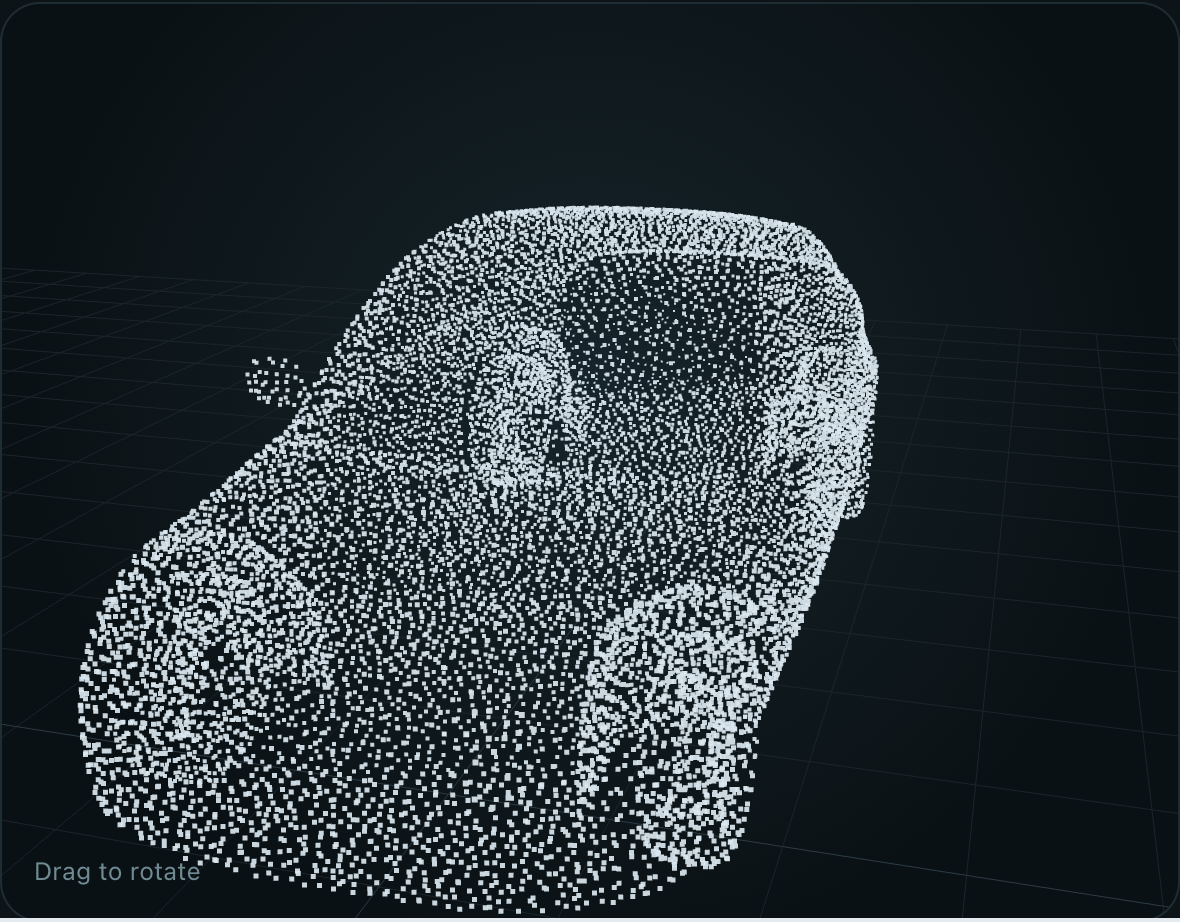
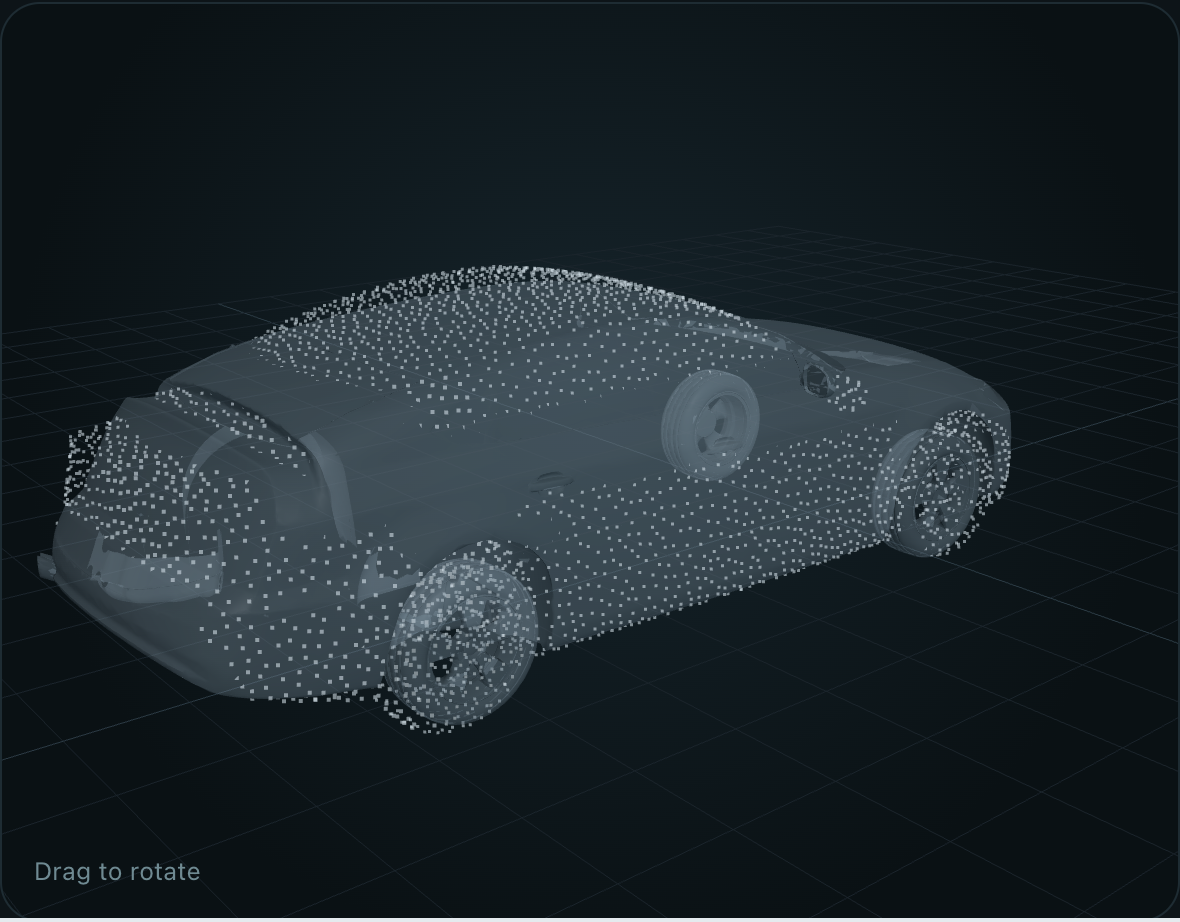
feat(web): open the demo by dissolving the car into its point cloud
데모 첫 화면에 차체가 점으로 녹아내리는 인트로를 넣었다. '우리는 차를 점으로
줄인다'는 이 프로젝트의 전제를 문장 대신 한 장면으로 보여준다. 저장소에 이미
있는 DrivAer 기준 메시(GLB)를 그대로 쓰므로 새 에셋은 없다.

메시가 옅어지는 진행률과 점이 차오르는 진행률이 같은 값을 공유한다. 따로
움직이면 '겹쳐 보인다'가 되고, 같이 움직여야 '녹아내린다'로 읽힌다. 1.9초에
걸쳐 진행하고, 끝나면 밀도 호흡이 최대 밀도 지점에서 이어받도록 위상을
맞췄다 — 인트로가 끝나자마자 점이 훅 빠지면 흐름이 끊긴다.

메시 로드에 실패해도 데모는 점군만으로 성립하도록 두었다. GLB는 2.7MB라
점군(326KB)보다 무거우므로 실패가 치명적이면 안 된다.

프레이밍 버그도 고쳤다. 가로 폭을 대각선의 0.82배로 잡고 있었는데, 카메라가
계속 도는 이상 대각선이 화면 가로와 나란해지는 순간이 반드시 오고 그때 차가
잘렸다. 축소 계수를 빼고 대각선 전체를 기준으로 삼는다.

검증: 인트로 구간을 230ms 간격으로 연속 촬영해 온전한 차체 → 반투명 차체와
      점의 공존 → 점군으로 이어지는 것을 확인. 콘솔 에러 0건.
      프론트 27개·파이썬 34개 통과, 빌드 통과.

diff --git a/src/web/frontend/src/components/PointCloudViewer.tsx b/src/web/frontend/src/components/PointCloudViewer.tsx
@@ -1,5 +1,6 @@
 import { useEffect, useRef } from "react";
 import * as THREE from "three";
+import { GLTFLoader } from "three/examples/jsm/loaders/GLTFLoader.js";
 
 /**
  * Renders exactly what the model receives: 2,048 raw points.
@@ -11,6 +12,8 @@ import * as THREE from "three";
 interface PointCloudViewerProps {
   points: number[][] | null;
   busy?: boolean;
+  /** 있으면 이 메시를 먼저 띄웠다가 점군으로 흩어지는 인트로를 재생한다. */
+  meshUrl?: string;
   /** 밀도 애니메이션을 멈추고 이 개수로 고정한다(추론 결과를 볼 때). */
   freezeAt?: number | null;
   onDensityChange?: (count: number) => void;
@@ -18,12 +21,15 @@ interface PointCloudViewerProps {
 
 const FOV = 34;
 const MIN_POINTS = 96;
+// 차체가 점으로 녹아내리는 시간. 짧으면 못 보고 길면 기다리게 된다.
+const DISSOLVE_MS = 1900;
 // 한 번 차오르고 빠지는 데 걸리는 시간. 너무 빠르면 산만하고 느리면 지루하다.
 const CYCLE_MS = 7200;
 
 export function PointCloudViewer({
   points,
   busy = false,
+  meshUrl,
   freezeAt = null,
   onDensityChange,
 }: PointCloudViewerProps) {
@@ -39,6 +45,12 @@ export function PointCloudViewer({
   const lastNotifiedRef = useRef(0);
   // 고정 지점으로 뚝 끊지 않고 흘러들어가게 한다.
   const countRef = useRef(0);
+  const meshRef = useRef<THREE.Group | null>(null);
+  const meshMatsRef = useRef<THREE.MeshStandardMaterial[]>([]);
+  // 인트로가 끝나기 전에는 밀도 호흡을 시작하지 않는다.
+  const dissolveStartRef = useRef<number | null>(null);
+  const introDoneRef = useRef(false);
+  const introEndRef = useRef<number | null>(null);
 
   freezeRef.current = freezeAt;
   notifyRef.current = onDensityChange;
@@ -65,6 +77,46 @@ export function PointCloudViewer({
     const grid = new THREE.GridHelper(14, 28, 0x2b3a44, 0x1a242b);
     grid.rotation.x = Math.PI / 2;
     scene.add(grid);
+
+    // 메시를 보여줄 때만 필요한 조명. 점군은 조명을 받지 않는다.
+    scene.add(new THREE.HemisphereLight(0xdfeaf2, 0x0b1216, 1.15));
+    const key = new THREE.DirectionalLight(0xffffff, 1.5);
+    key.position.set(4, 6, 8);
+    scene.add(key);
+
+    let disposed = false;
+    if (meshUrl) {
+      new GLTFLoader()
+        .loadAsync(meshUrl)
+        .then((gltf) => {
+          if (disposed) return;
+          const group = gltf.scene;
+          const mats: THREE.MeshStandardMaterial[] = [];
+          group.traverse((node) => {
+            const mesh = node as THREE.Mesh;
+            if (!mesh.isMesh) return;
+            const material = new THREE.MeshStandardMaterial({
+              color: 0x9fb4c2,
+              roughness: 0.42,
+              metalness: 0.05,
+              transparent: true,
+              opacity: 1,
+            });
+            mesh.material = material;
+            mats.push(material);
+          });
+          meshMatsRef.current = mats;
+          meshRef.current = group;
+          scene.add(group);
+          dissolveStartRef.current = performance.now();
+        })
+        .catch(() => {
+          // 메시를 못 받아도 데모는 점군만으로 성립한다.
+          introDoneRef.current = true;
+        });
+    } else {
+      introDoneRef.current = true;
+    }
 
     let frame = 0;
     let dragging = false;
@@ -110,9 +162,33 @@ export function PointCloudViewer({
 
       // 점을 매 프레임 다시 만들지 않는다. 지오메트리는 그대로 두고 그리는
       // 개수만 바꾼다 — FPS 순서라 앞에서 n개가 곧 FPS-n 샘플이다.
+      // 인트로: 차체가 옅어지는 만큼 점이 차오른다. 두 동작이 같은 진행률을
+      // 공유해야 '녹아내린다'로 읽히고, 따로 놀면 그냥 겹쳐 보인다.
       const cloud = cloudRef.current;
       const total = totalRef.current;
-      if (cloud && total > 0) {
+      const dissolveStart = dissolveStartRef.current;
+      if (dissolveStart !== null && !introDoneRef.current) {
+        const raw = Math.min(1, (performance.now() - dissolveStart) / DISSOLVE_MS);
+        const progress = raw * raw * (3 - 2 * raw);
+        meshMatsRef.current.forEach((material) => {
+          material.opacity = 1 - progress;
+        });
+        if (meshRef.current) meshRef.current.visible = progress < 1;
+        if (cloud) {
+          (cloud.material as THREE.PointsMaterial).opacity = 0.92 * progress;
+          if (total > 0) {
+            countRef.current = MIN_POINTS + (total - MIN_POINTS) * progress;
+            cloud.geometry.setDrawRange(0, Math.max(1, Math.round(countRef.current)));
+          }
+        }
+        if (raw >= 1) {
+          introDoneRef.current = true;
+          // 호흡이 지금 밀도에서 자연스럽게 이어지도록 위상을 맞춘다.
+          introEndRef.current = performance.now();
+        }
+      }
+
+      if (cloud && total > 0 && introDoneRef.current) {
         if (freezeRef.current) {
           // 결과가 나오면 모델이 실제로 읽은 개수로 수렴시킨다. 순간이동시키면
           // 화면이 갑자기 성겨져 고장처럼 보이므로 흘러들어가게 둔다.
@@ -121,7 +197,9 @@ export function PointCloudViewer({
           if (Math.abs(target - countRef.current) < 2) countRef.current = target;
         } else {
           // 삼각파를 부드럽게 다듬어 차오르고 빠지는 호흡을 만든다.
-          const phase = ((performance.now() - started) % CYCLE_MS) / CYCLE_MS;
+          // 인트로가 끝난 지점(밀도 최대)에서 이어받도록 반주기 오프셋을 준다.
+          const base = introEndRef.current ?? started;
+          const phase = (((performance.now() - base) + CYCLE_MS / 2) % CYCLE_MS) / CYCLE_MS;
           const triangle = phase < 0.5 ? phase * 2 : (1 - phase) * 2;
           const eased = triangle * triangle * (3 - 2 * triangle);
           countRef.current = MIN_POINTS + (total - MIN_POINTS) * eased;
@@ -160,8 +238,15 @@ export function PointCloudViewer({
     tick();
 
     return () => {
+      disposed = true;
       cancelAnimationFrame(frame);
       observer.disconnect();
+      meshRef.current?.traverse((node) => {
+        const mesh = node as THREE.Mesh;
+        if (mesh.isMesh) mesh.geometry.dispose();
+      });
+      meshMatsRef.current.forEach((material) => material.dispose());
+      meshMatsRef.current = [];
       renderer.domElement.removeEventListener("pointerdown", onDown);
       renderer.domElement.removeEventListener("pointermove", onMove);
       renderer.domElement.removeEventListener("pointerup", onUp);
@@ -208,8 +293,9 @@ export function PointCloudViewer({
         cx: center.x,
         cy: center.y,
         cz: center.z * 0.8,
-        // 3/4 각도에서 가로로 필요한 폭은 길이와 폭 사이 어딘가다.
-        spanXY: Math.hypot(size.x, size.y) * 0.82,
+        // 카메라가 계속 도므로 어느 각도에서든 가로로 들어와야 한다.
+        // 최악은 대각선이 화면 가로와 나란해지는 순간이다.
+        spanXY: Math.hypot(size.x, size.y),
         spanZ: size.z,
       };
     }
@@ -219,7 +305,8 @@ export function PointCloudViewer({
       color: 0xdbe7ef,
       sizeAttenuation: true,
       transparent: true,
-      opacity: 0.92,
+      // 인트로가 남아 있으면 보이지 않게 시작해 메시가 옅어지며 드러난다.
+      opacity: introDoneRef.current ? 0.92 : 0,
     });
 
     const cloud = new THREE.Points(geometry, material);

diff --git a/src/web/frontend/src/DemoPage.tsx b/src/web/frontend/src/DemoPage.tsx
@@ -94,6 +94,7 @@ function LiveDemo() {
       <div className="stage-viewer">
         <PointCloudViewer
           points={points}
+          meshUrl="/static/models/drivaer_reference.glb"
           busy={loadingCloud || inferring}
           freezeAt={result ? result.n_points : null}
           onDensityChange={setDensity}